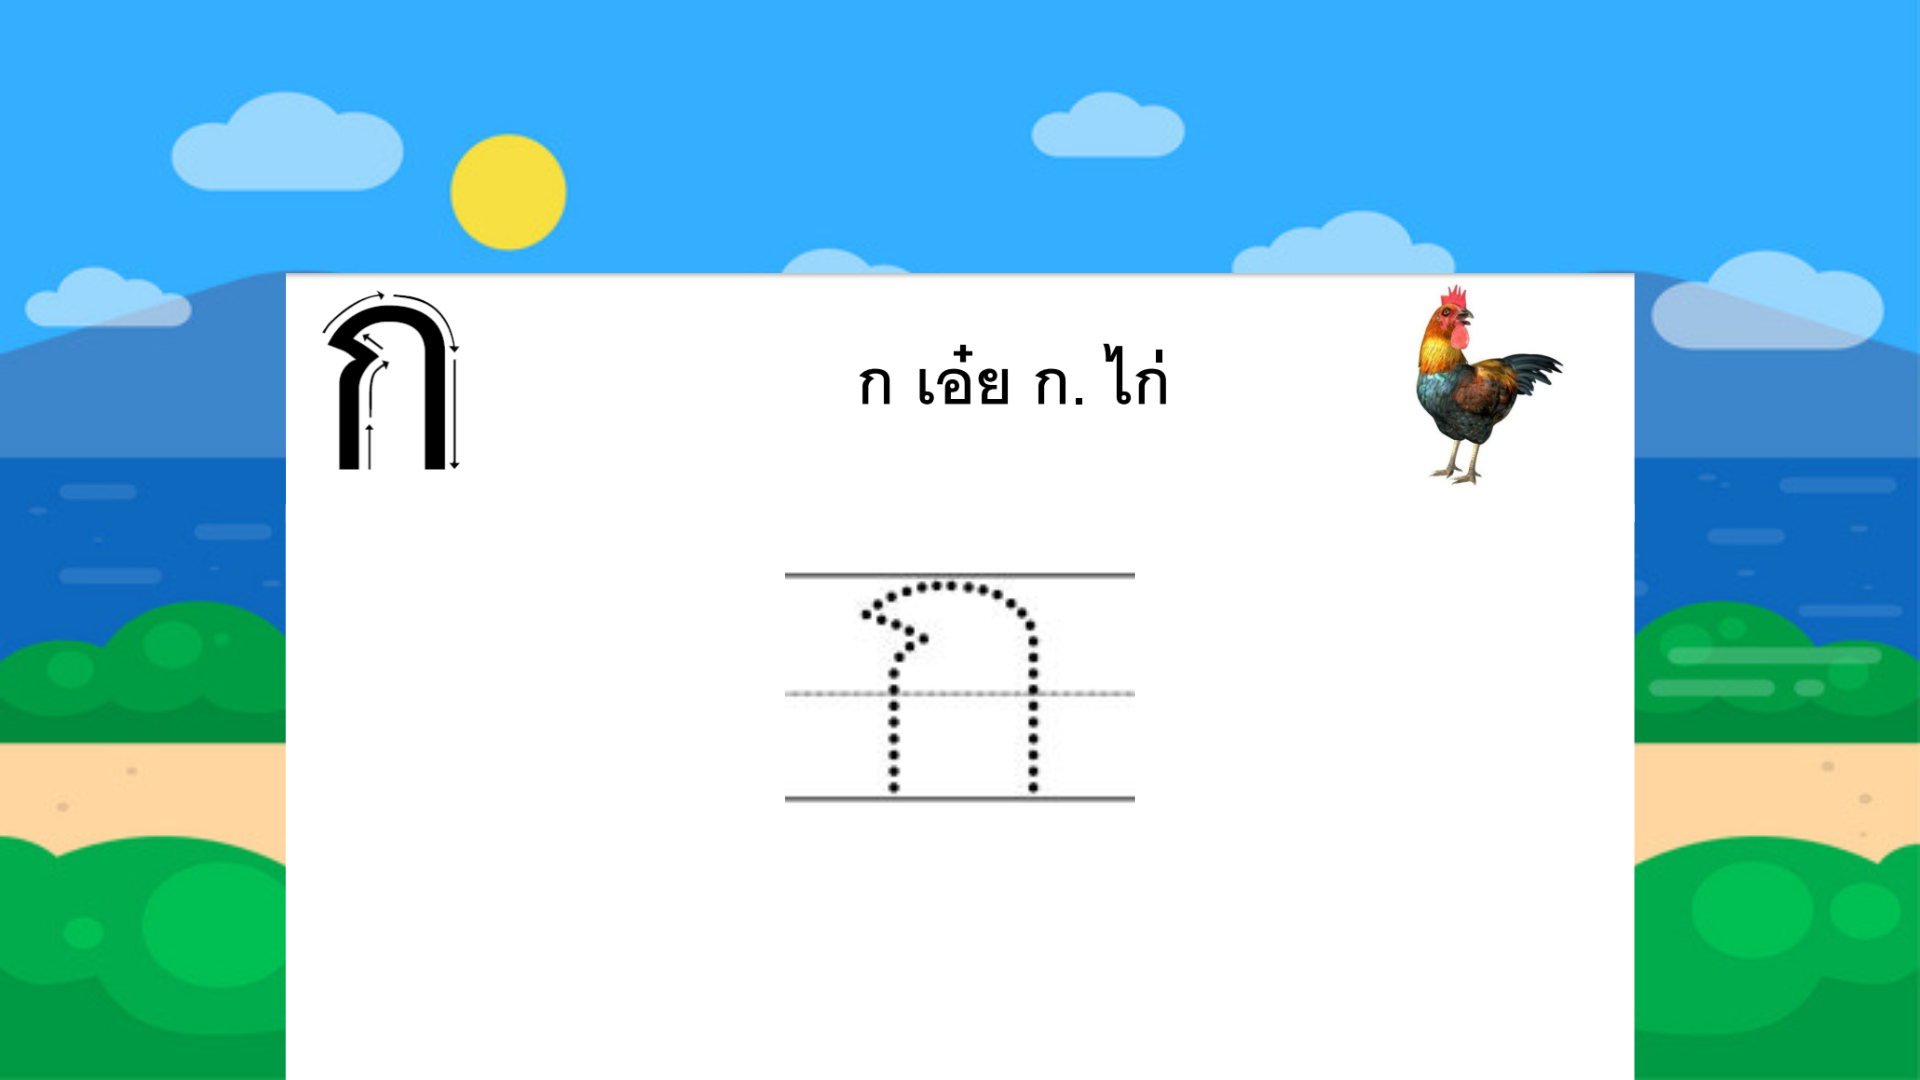
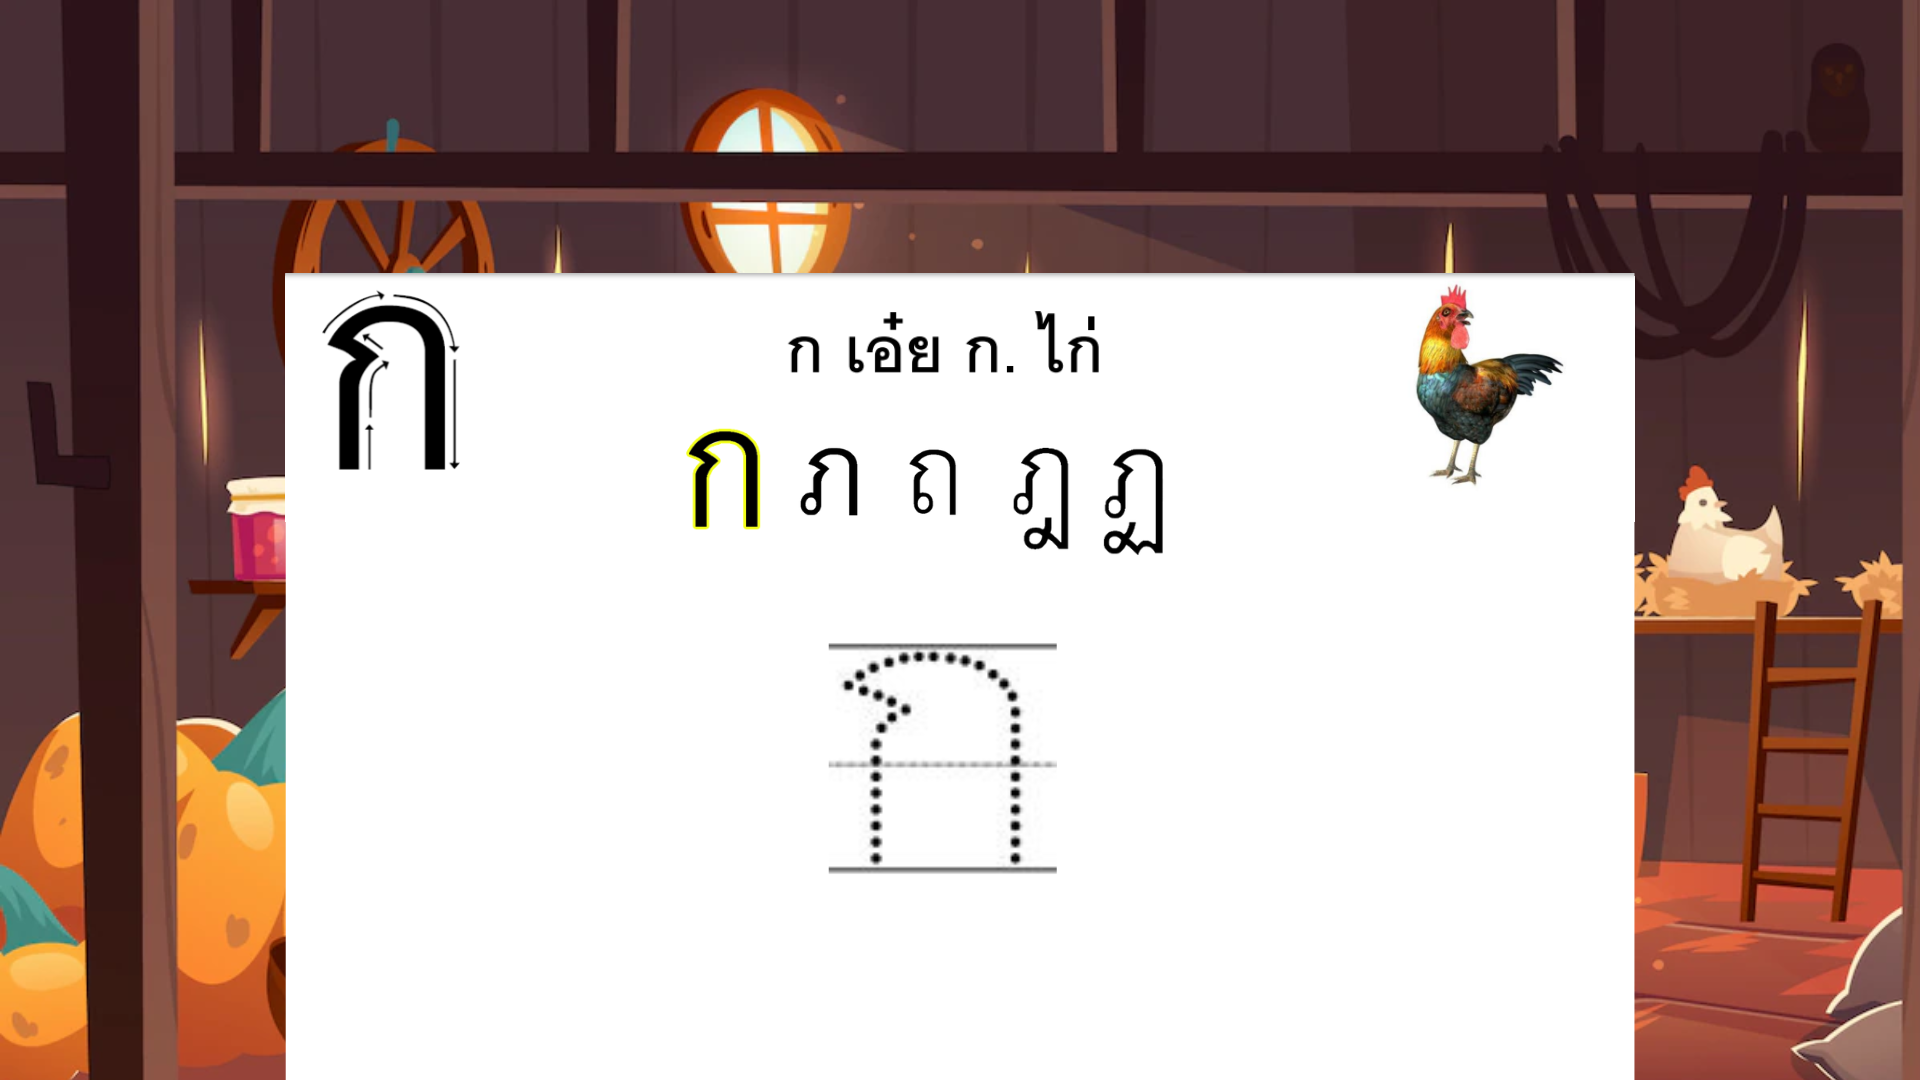
1

diff --git a/src/components/pages/WritePage/WritePage1.tsx b/src/components/pages/WritePage/WritePage1.tsx
@@ -26,6 +26,8 @@ const images = [
   `${process.env.PUBLIC_URL}/images/draw1.png`,
   `${process.env.PUBLIC_URL}/images/draw2.png`,
   `${process.env.PUBLIC_URL}/images/draw3.png`,
+  `${process.env.PUBLIC_URL}/images/draw4.png`,
+  `${process.env.PUBLIC_URL}/images/draw5.png`,
 ];
 
 const WritePage1 = () => {
